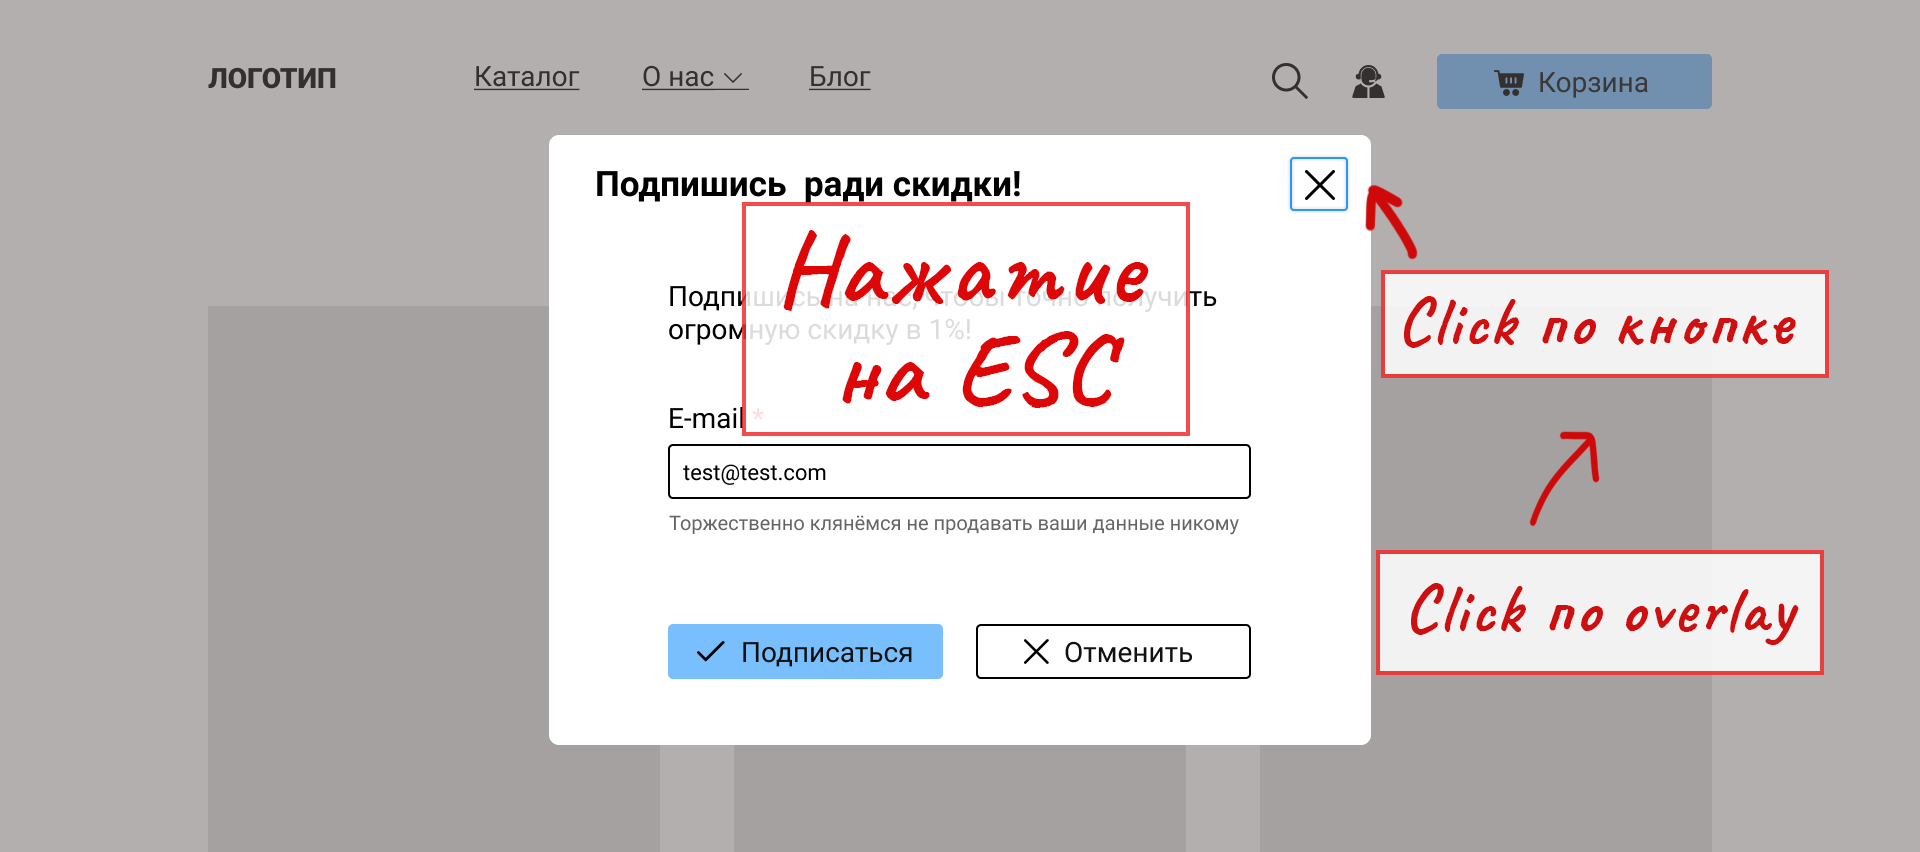
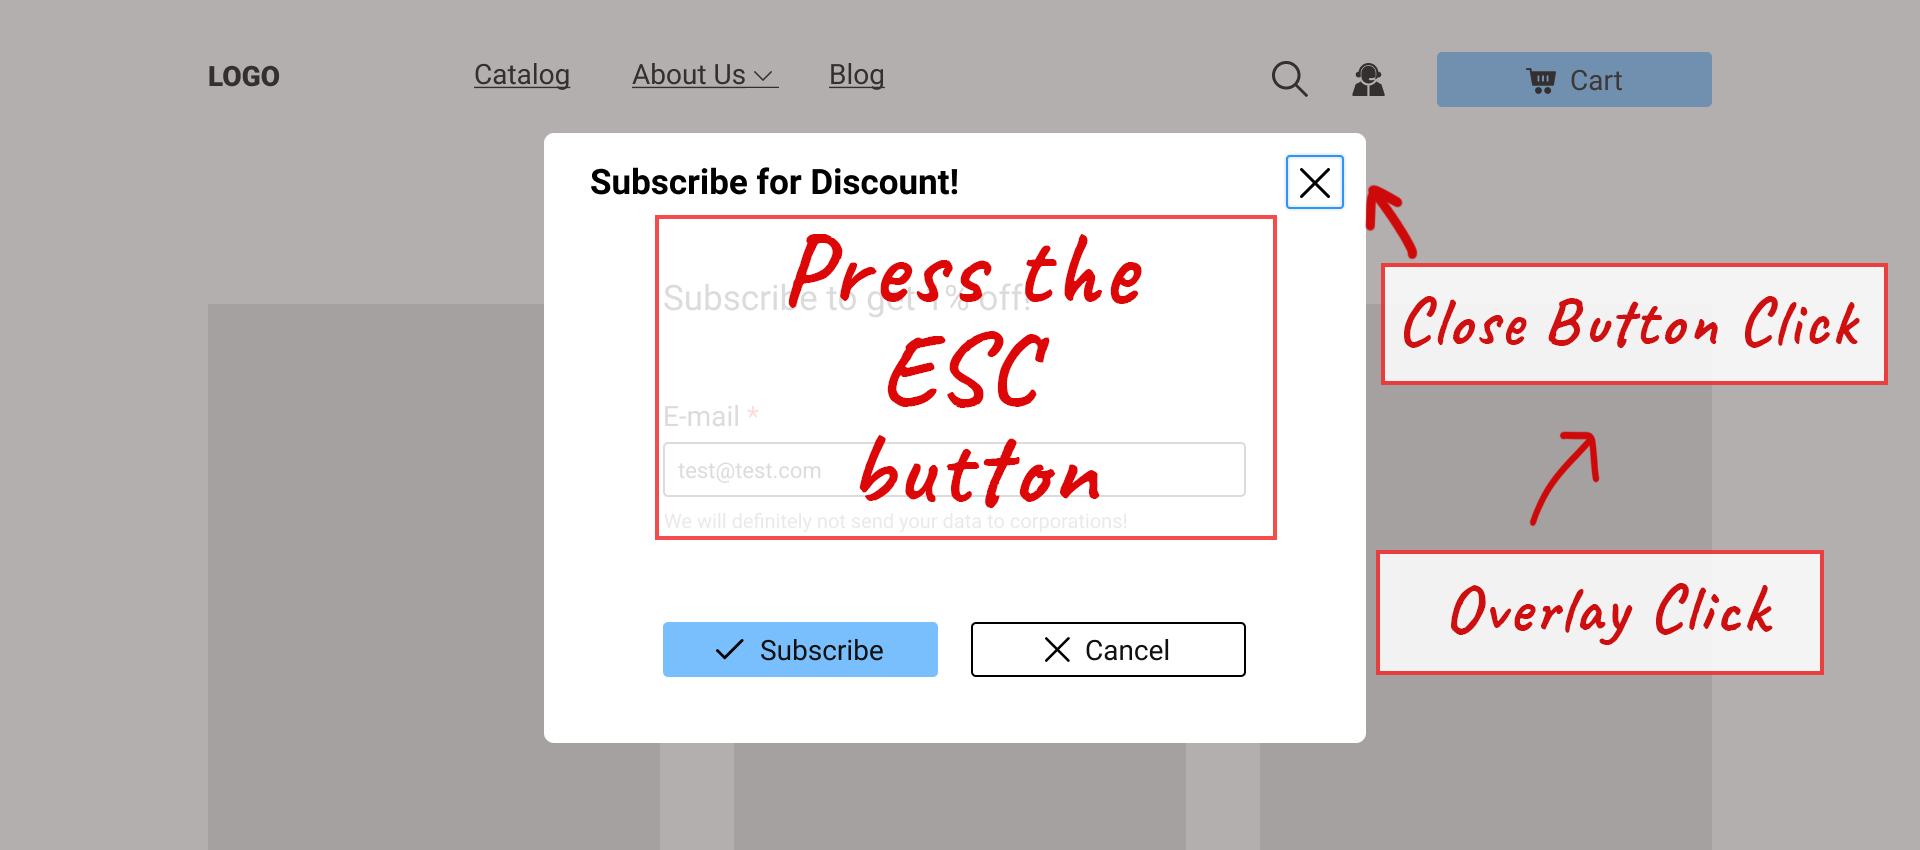
Fix english

diff --git a/index.html b/index.html
@@ -1,7 +1,7 @@
 <!DOCTYPE html>
 <html lang="en">
 <head>
-  <title>Ну вот и... всплыли!</title>
+  <title>Here I am, your beloved popup!</title>
   <meta charset="utf-8">
   <meta name="viewport" content="width=device-width, initial-scale=1">
   <link rel="stylesheet" href="node_modules/@shower/ribbon/styles/styles.css">
@@ -46,12 +46,12 @@
   <body class="shower list">
 
     <header class="caption">
-      <h1>Here I am, your <br>beloved popup!</h1>
+      <h1>Here I am, your beloved popup!</h1>
       <p>Glafira Zhur</p>
     </header>
 
     <section class="slide">
-      <h2 class="shout this-shout this-shout-top">Ну вот и... всплыли</h2>
+      <h2 class="shout this-shout this-shout-top">Here I am, your <br>beloved popup!</h2>
       <img class="cover" src="pictures/main.png" alt="Dead mouse">
     </section>
 
@@ -167,7 +167,7 @@
     </section>
 
     <section class="slide">
-      <h2>Диалоги</h2>
+      <h2>Dialog</h2>
       <div class="two-col-grid">
         <img class="next" src="pictures/slide9.png" alt="Dialog">
         <img class="next" src="pictures/slide10.png" alt="Dialog modal">
@@ -180,10 +180,13 @@
       </style>
     </section>
 
-    <section class="slide">
-      <h2 class="shout this-shout">And who is this *******<br>modal?!</h2>
+
+    <!-- слайд вообще надо переосмыслить, нет у них такого мема -->
+
+    <!--section class="slide">
+      <h2 class="shout this-shout">And who is this <br>******* modal?!</h2>
       <img class="cover" src="pictures/whomodal.png" alt="Dialog">
-    </section>
+    </section-->
 
     <!-- форма -->
     <section class="slide">
@@ -241,6 +244,10 @@
     <section class="slide">
       <img class="cover" src="pictures/image-1.png" alt="Dialog">
       <a href="https://caniuse.com/#feat=dialog" class="copyright right black">Can I Use</a>
+    </section>
+
+    <section class="slide">
+      <h2 class="shout this-shout">HTML</h2>
     </section>
 
     <section class="slide">
